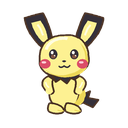
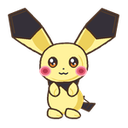
feat(pet): redesign Pichu (Level 1) form with user reference art

diff --git a/scripts/build-pikachu-forms.py b/scripts/build-pikachu-forms.py
@@ -29,8 +29,9 @@ FORMS = {
     "pichu": {
         "shapeKey": "pichu",
         "name": "Pichu Spark",
-        "fur": ["#cfae25", "#ecd757", "#fdf192", "#fffde0"],
-        "cheeks": ["#b52a46", "#db4d68", "#f78398", "#ffccd5"],
+        "fur": ["#c29f2e", "#edd05a", "#fff29c", "#fffde8"],
+        "cheeks": ["#b8354c", "#e86278", "#faa8b5", "#ffe4e8"],
+        "eyes": ["#22150f", "#5c2a16", "#df802c", "#fffdfa"],
     },
     "classic": {
         "shapeKey": "classic",
@@ -107,7 +108,7 @@ MOTION = {
     "gorochu": (.7, .28, 1.2, .7, 2.5, .3),
 }
 TAIL_TIPS = {
-    "pichu": (137, 163), "classic": (174, 106), "raichu": (174, 33),
+    "pichu": (136, 162), "classic": (174, 106), "raichu": (174, 33),
     "alolan-raichu": (155, 185), "gigantamax": (138, 22),
     "mega-raichu-x": (179, 81), "mega-raichu-y": (174, 25),
     "concept-white-belly": (150, 117), "concept-long-tail": (174, 70),
@@ -189,7 +190,7 @@ class Ink:
 def pose_transform(form_id, row, frame):
     phase = frame * math.tau / COLS
     baby = form_id == "pichu"
-    scale = .86 * (.79 if baby else (.94 if form_id == "concept-long-tail" else 1))
+    scale = .86 * (.84 if baby else (.94 if form_id == "concept-long-tail" else 1))
     amplitude, harmonic, *_ = MOTION[form_id]
     rhythm = math.sin(phase) + harmonic*math.sin(2*phase)
     bob = rhythm * (amplitude if row in (0, 6, 8) else 2)
@@ -222,8 +223,9 @@ def tail(ink, form_id, fur, phase, row):
     p = Ink(ink.image, tail_transform)
     light, shade = fur[2], fur[1]
     if form_id == "pichu":
-        p.path([("M",102,160),("L",124,150),("L",121,160),("L",137,163),
-                ("L",128,174),("L",113,167),("L",102,172),("Z",)], DARK)
+        p.path([("M", 96, 160), ("L", 118, 150), ("L", 114, 160), ("L", 136, 162),
+                ("L", 126, 174), ("L", 110, 167), ("L", 96, 173), ("Z",)], DARK, OUTLINE, 1.8)
+        p.path([("M", 116, 153), ("L", 128, 162), ("L", 122, 169)], None, "#4a3528", 1.2)
     elif form_id in ("classic", "concept-white-belly", "concept-long-tail", "gigantamax"):
         if form_id == "gigantamax":
             points = [(111,166),(145,150),(137,119),(159,120),(149,91),(174,90),
@@ -295,11 +297,32 @@ def ears(ink, form_id, fur, phase, row):
             return ink.transform(85+side*(x-85), y + fold*max(0, (72-y)/50))
         p = Ink(ink.image, transform)
         if form_id == "pichu":
-            p.path([("M",101,83),("Q",102,63,116,36),("Q",130,39,143,43),
-                    ("Q",141,66,112,91),("Z",)],DARK)
-            p.path([("M",109,77),("Q",110,60,120,47),("L",133,50),
-                    ("Q",129,66,116,78),("Z",)],fur[2],None)
-            p.path([("M",116,68),("Q",119,58,124,53)],None,fur[3],2)
+            ear_full = [
+                ("M", 97, 78),
+                ("Q", 106, 58, 122, 36),
+                ("L", 146, 12),
+                ("L", 172, 22),
+                ("L", 166, 56),
+                ("Q", 140, 75, 114, 87),
+                ("Z",)
+            ]
+            p.path(ear_full, fur[2], OUTLINE, 2.0)
+            p.path([("M", 104, 76),
+                    ("Q", 112, 58, 122, 42),
+                    ("L", 136, 54),
+                    ("Q", 134, 70, 114, 82),
+                    ("Z",)], fur[1], None)
+            ear_black_tip = [
+                ("M", 119, 40),
+                ("L", 146, 12),
+                ("L", 172, 22),
+                ("L", 166, 56),
+                ("L", 138, 59),
+                ("L", 128, 48),
+                ("Z",)
+            ]
+            p.path(ear_black_tip, DARK, OUTLINE, 2.0)
+            p.path([("M", 145, 16), ("L", 168, 24), ("L", 163, 50)], None, "#503b2c", 1.4)
         elif form_id == "raichu":
             p.path([("M",104,85),("C",112,67,113,42,139,28),
                     ("C",128,44,136,48,139,55),("C",147,71,124,80,121,66),
@@ -353,10 +376,10 @@ def body(ink, form_id, fur, phase, row):
     gmax = form_id == "gigantamax"
     athletic = form_id in ("raichu", "mega-raichu-y")
     shaggy = form_id == "gorochu"
-    width = 47 if gmax else (22 if baby else (28 if athletic else 34))
+    width = 47 if gmax else (25 if baby else (28 if athletic else 34))
     if form_id == "concept-white-belly":
         width = 38
-    top, bottom = (103,184) if gmax else ((119,176) if baby else (108,177))
+    top, bottom = (103,184) if gmax else ((118,178) if baby else (108,177))
     if shaggy:
         outline = [("M",66,111),("L",54,116),("L",58,123),("L",45,133),
                    ("L",54,134),("L",48,147),("L",56,144),("C",48,166,59,180,84,181),
@@ -391,9 +414,9 @@ def body(ink, form_id, fur, phase, row):
             ink.path([("M",99,141),("C",109,164,99,171,80,174),
                       ("C",101,181,113,166,99,141),("Z",)],"#e8d4b5",None)
     if baby:
-        ink.path([("M",61,121),("Q",83,130,108,121),("L",104,135),
-                  ("L",95,131),("L",89,139),("L",80,132),("L",73,137),
-                  ("L",69,130),("L",63,132),("Z",)],DARK)
+        ink.path([("M", 60, 121), ("Q", 85, 131, 110, 121), ("L", 105, 137),
+                  ("L", 96, 132), ("L", 90, 142), ("L", 80, 133), ("L", 72, 139),
+                  ("L", 68, 131), ("L", 62, 133), ("Z",)], DARK, OUTLINE, 1.6)
     if form_id == "mega-raichu-x":
         ink.path([("M",77,121),("Q",85,116,93,124),("L",91,139),
                   ("L",78,136),("Z",)],"#a56c3d",None)
@@ -412,16 +435,21 @@ def body(ink, form_id, fur, phase, row):
 def head(ink, form_id, fur, cheek, phase, row, frame):
     gmax = form_id == "gigantamax"
     baby = form_id == "pichu"
-    head_w = 36 if baby else (39 if gmax else 34)
+    head_w = 38 if baby else (39 if gmax else 34)
     center_y = 96 if not gmax else 94
     # Smooth complete dome with fuller cheek lobes and a short, rounded muzzle.
-    ink.path([("M",85,68),("C",106,65,85+head_w,79,85+head_w,99),
-              ("C",85+head_w+4,119,103,129,85,128),
-              ("C",63,131,47,120,49,104),("C",48,81,62,68,85,68),("Z",)],fur[2])
-    ink.path([("M",109,80),("C",123,100,116,119,96,124),
-              ("Q",74,132,58,119),("C",77,139,129,131,119,98),
-              ("Q",117,87,109,80),("Z",)],fur[1],None)
-    ink.path([("M",59,89),("C",62,76,79,70,90,73)],None,fur[3],3)
+    ink.path([("M",85,66 if baby else 68),("C",108 if baby else 106,63 if baby else 65,85+head_w,77 if baby else 79,85+head_w,98 if baby else 99),
+              ("C",85+head_w+3 if baby else 85+head_w+4,118 if baby else 119,104 if baby else 103,129,85,128),
+              ("C",64 if baby else 63,131,46 if baby else 47,118 if baby else 120,48 if baby else 49,103 if baby else 104),("C",47 if baby else 48,80 if baby else 81,62,66 if baby else 68,85,66 if baby else 68),("Z",)],fur[2])
+    if baby:
+        ink.path([("M", 108, 84), ("C", 120, 100, 115, 116, 96, 122),
+                  ("Q", 80, 128, 64, 120), ("C", 78, 132, 118, 128, 116, 98),
+                  ("Q", 114, 88, 108, 84), ("Z",)], fur[1], None)
+    else:
+        ink.path([("M",109,80),("C",123,100,116,119,96,124),
+                  ("Q",74,132,58,119),("C",77,139,129,131,119,98),
+                  ("Q",117,87,109,80),("Z",)],fur[1],None)
+        ink.path([("M",59,89),("C",62,76,79,70,90,73)],None,fur[3],3)
     if form_id == "gorochu":
         for side in (-1,1):
             def tr(x,y,side=side):
@@ -430,39 +458,63 @@ def head(ink, form_id, fur, cheek, phase, row, frame):
             p.path([("M",111,98),("L",125,96),("L",121,105),("L",131,108),
                     ("L",120,113),("L",124,119),("L",111,119),("Z",)],fur[2])
     # Oval cheek pads sit entirely on the face, never on body/back stripes.
-    for x in (57,112):
-        ink.ellipse(x,110,7.5 if not baby else 8,6.8,cheek[1],None)
-        ink.ellipse(x-1.7,107.8,3.2,1.6,cheek[3],None)
+    if baby:
+        for x in (56, 113):
+            ink.ellipse(x, 110, 9.2, 8.2, cheek[2], None)
+            ink.ellipse(x, 110, 7.0, 6.0, cheek[1], None)
+            ink.ellipse(x, 110, 4.0, 3.4, cheek[0], None)
+    else:
+        for x in (57,112):
+            ink.ellipse(x,110,7.5,6.8,cheek[1],None)
+            ink.ellipse(x-1.7,107.8,3.2,1.6,cheek[3],None)
     sleeping = row == 5
     blink = row in (0,6,7,8) and frame == 6
-    for x in (69,100):
+    for x in ((68, 101) if baby else (69, 100)):
         if sleeping or blink:
-            ink.path([("M",x-5,98),("Q",x,103,x+5,98)],None,DARK,2.2)
+            ink.path([("M",x-6,97 if baby else 98),("Q",x,103.5 if baby else 103,x+6,97 if baby else 98)],None,DARK,2.4 if baby else 2.2)
+            if baby:
+                ink.path([("M", x + 4, 98), ("L", x + 7, 95)], None, DARK, 1.4)
         elif row == 4:
-            ink.path([("M",x-5,99),("Q",x,89,x+5,99)],None,DARK,2.3)
+            ink.path([("M",x-6,99),("Q",x,89,x+6,99)],None,DARK,2.4 if baby else 2.3)
         else:
-            ink.ellipse(x,96,5.3 if not baby else 6,7.2,DARK,None)
-            iris = FORMS[form_id].get('eyes')
-            if iris:
-                ink.ellipse(x,98.4,3.5,3.6,iris[1],None)
-                ink.ellipse(x,96.3,2.0,4.2,DARK,None)
+            if baby:
+                ink.ellipse(x, 96, 6.6, 8.0, DARK, OUTLINE, 1.5)
+                iris = FORMS[form_id].get('eyes')
+                iris_col = iris[1] if iris else "#5c2a16"
+                glow_col = iris[2] if iris else "#df802c"
+                ink.ellipse(x, 98.2, 5.0, 5.2, iris_col, None)
+                ink.ellipse(x, 99.8, 4.2, 3.2, glow_col, None)
+                ink.ellipse(x, 96.5, 2.8, 4.0, DARK, None)
+                ink.ellipse(x - 2.0, 93.4, 2.4, 2.8, "#fffdfa", None)
+                ink.ellipse(x + 2.2, 98.4, 1.1, 1.1, "#fffdfa", None)
             else:
-                ink.ellipse(x,99.3,3.3,2.7,"#815442",None)
-            ink.ellipse(x-1.5,93.4,1.9,2.3,"#fffdf5",None)
-            ink.ellipse(x+2,98, .8,.8,"#fffdf5",None)
-    ink.path([("M",82,106),("Q",85,104,88,106),("Q",85,109,82,106),("Z",)],DARK,None)
+                ink.ellipse(x,96,5.3,7.2,DARK,None)
+                iris = FORMS[form_id].get('eyes')
+                if iris:
+                    ink.ellipse(x,98.4,3.5,3.6,iris[1],None)
+                    ink.ellipse(x,96.3,2.0,4.2,DARK,None)
+                else:
+                    ink.ellipse(x,99.3,3.3,2.7,"#815442",None)
+                ink.ellipse(x-1.5,93.4,1.9,2.3,"#fffdf5",None)
+                ink.ellipse(x+2,98, .8,.8,"#fffdf5",None)
+    ink.ellipse(85, 106.5 if baby else 106, 1.2 if baby else 1.5, 0.9 if baby else 1.2, DARK, None)
     if row == 4 or row == 3:
-        ink.path([("M",77,113),("Q",85,116,93,112),("Q",90,126,83,123),
-                  ("Q",78,122,77,113),("Z",)],"#703d36",DARK,1.2)
-        ink.path([("M",81,120),("Q",86,116,90,119),("Q",87,126,81,120),("Z",)],"#ee9391",None)
+        ink.path([("M",78,112),("Q",85,115,92,112),("Q",89,123,85,121),
+                  ("Q",81,123,78,112),("Z",)],"#703d36",DARK,1.2)
+        ink.path([("M",81,118),("Q",85,115,89,118),("Q",86,122,81,118),("Z",)],"#ee9391",None)
     else:
-        ink.path([("M",77,113),("Q",80,117,85,113),("Q",90,117,94,112)],None,DARK,1.4)
+        if baby:
+            ink.path([("M", 78, 112.5), ("Q", 81.5, 116.0, 85, 113.0),
+                      ("Q", 88.5, 116.0, 92, 112.5)], None, DARK, 1.5)
+        else:
+            ink.path([("M",77,113),("Q",80,117,85,113),("Q",90,117,94,112)],None,DARK,1.4)
     if form_id == "gorochu" and not sleeping:
         for x in (79,91):
             ink.path([("M",x-2,114),("L",x,120),("L",x+2,114),("Z",)],"#fff4dc",None)
 
 
 def arms(ink, form_id, fur, phase, row):
+    baby = form_id == "pichu"
     color = "#6b4537" if form_id in ("raichu","mega-raichu-x","gorochu") else fur[2]
     for side in (-1,1):
         def tr(x,y,side=side):
@@ -470,10 +522,11 @@ def arms(ink, form_id, fur, phase, row):
         p=Ink(ink.image,tr)
         if row == 4 or (row == 3 and side == 1):
             wave=math.sin(phase)*5
-            p.path([("M",108,127),("C",123,122,126,109+wave,131,107+wave),
-                    ("C",140,105+wave,140,115+wave,133,122+wave),
-                    ("Q",126,139,112,143),("Z",)],fur[2])
-            p.ellipse(132,114+wave,6,7,color,None)
+            p.path([("M",108 if not baby else 102,127 if not baby else 126),
+                    ("C",123,122,126,109+wave,131 if not baby else 124,107+wave if not baby else 106+wave),
+                    ("C",140,105+wave,140,115+wave,133 if not baby else 126,122+wave if not baby else 120+wave),
+                    ("Q",126,139,112 if not baby else 105,143 if not baby else 140),("Z",)],fur[2],OUTLINE,1.8 if baby else None)
+            p.ellipse(132 if not baby else 125,114+wave if not baby else 112+wave,6 if not baby else 5,7 if not baby else 5.5,color,None)
             p.path([("M",133,110+wave),("L",135,111+wave)],None,fur[3],1.3)
         elif row in (7,8):
             reach=math.sin(phase)*2 if row==7 else 0
@@ -484,11 +537,18 @@ def arms(ink, form_id, fur, phase, row):
             p.path([("M",108,132),("Q",119,146,107,158),
                     ("Q",96,160,96,152),("Q",103,146,102,136),("Z",)],fur[2])
         else:
-            stride=math.cos(phase)*6*side if row in (1,2) else math.sin(phase)*1.3
-            p.path([("M",108,128),("C",121,134,119,144+stride,109,152+stride),
-                    ("Q",101,157+stride,100,150+stride),("Q",104,138,101,133),("Z",)],fur[2])
-            p.ellipse(107,149+stride,5,5.7,color,None)
-            p.path([("M",107,145+stride),("Q",111,142+stride,112,137)],None,fur[3],1.4)
+            if baby:
+                p.path([("M", 100, 127),
+                        ("C", 112, 132, 110, 148, 99, 150),
+                        ("C", 91, 151, 88, 140, 96, 131),
+                        ("Z",)], fur[2], OUTLINE, 1.8)
+                p.path([("M", 96, 138), ("Q", 103, 146, 97, 149)], None, fur[1], 1.2)
+            else:
+                stride=math.cos(phase)*6*side if row in (1,2) else math.sin(phase)*1.3
+                p.path([("M",108,128),("C",121,134,119,144+stride,109,152+stride),
+                        ("Q",101,157+stride,100,150+stride),("Q",104,138,101,133),("Z",)],fur[2])
+                p.ellipse(107,149+stride,5,5.7,color,None)
+                p.path([("M",107,145+stride),("Q",111,142+stride,112,137)],None,fur[3],1.4)
 
 
 def props(ink, row, phase):

diff --git a/scripts/preview-pichu-states.py b/scripts/preview-pichu-states.py
@@ -1,0 +1,74 @@
+#!/usr/bin/env python3
+"""Generate a 3x3 contact sheet showing all 9 animation states of Pichu."""
+from pathlib import Path
+from PIL import Image, ImageDraw, ImageFont
+import sys
+
+ROOT = Path(__file__).resolve().parent.parent
+PET_DIR = ROOT / "public/pets/pikachu"
+COLS, ROWS, CELL_W, CELL_H = 8, 9, 192, 208
+
+sheet_path = PET_DIR / "forms/pichu/spritesheet.webp"
+if not sheet_path.exists():
+    print(f"Error: {sheet_path} not found")
+    sys.exit(1)
+
+sheet = Image.open(sheet_path).convert("RGBA")
+
+STATES = [
+    ("Hàng 0: IDLE (Đứng yên)", 0, 0),
+    ("Hàng 1: RUN-R (Chạy phải)", 1, 2),
+    ("Hàng 2: RUN-L (Chạy trái)", 2, 2),
+    ("Hàng 3: WAVE/DONE (Vẫy tay)", 3, 2),
+    ("Hàng 4: CELEBRATE (Hân hoan)", 4, 3),
+    ("Hàng 5: SLEEPY (Ngủ)", 5, 0),
+    ("Hàng 6: WAITING (Chờ đợi)", 6, 0),
+    ("Hàng 7: WORKING (Làm việc)", 7, 2),
+    ("Hàng 8: READING (Đọc sách)", 8, 2),
+]
+
+font_path = "/System/Library/Fonts/Supplemental/Arial.ttf"
+try:
+    font = ImageFont.truetype(font_path, 13)
+except Exception:
+    font = ImageFont.load_default()
+
+CARD_W = CELL_W + 16
+CARD_H = CELL_H + 36
+PAD = 20
+TOTAL_W = PAD * 2 + CARD_W * 3
+TOTAL_H = PAD * 2 + CARD_H * 3
+
+out = Image.new("RGBA", (TOTAL_W, TOTAL_H), "#181824")
+draw = ImageDraw.Draw(out)
+
+for idx, (label, row, frame) in enumerate(STATES):
+    col_idx = idx % 3
+    row_idx = idx // 3
+
+    x = PAD + col_idx * CARD_W
+    y = PAD + row_idx * CARD_H
+
+    # Card background box
+    draw.rounded_rectangle(
+        [x, y, x + CARD_W - 8, y + CARD_H - 8],
+        radius=10,
+        fill="#222232",
+        outline="#333348",
+        width=1
+    )
+
+    # Label header
+    draw.text((x + 12, y + 10), label, fill="#f0e8d8", font=font)
+
+    # Crop cell from spritesheet
+    cell = sheet.crop((frame * CELL_W, row * CELL_H, (frame + 1) * CELL_W, (row + 1) * CELL_H))
+
+    # Paste cell
+    cell_x = x + (CARD_W - 8 - CELL_W) // 2
+    cell_y = y + 28
+    out.alpha_composite(cell, (cell_x, cell_y))
+
+output_path = Path("/tmp/pichu-all-states-review.png")
+out.convert("RGB").save(output_path, quality=95)
+print(f"Saved {output_path}")
